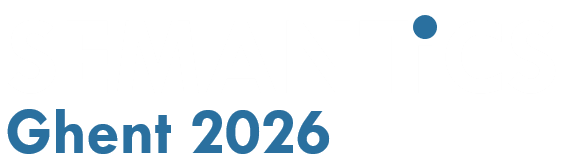
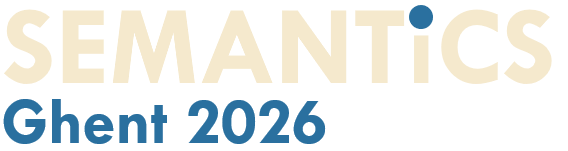
Updated:  CSS and HTML files with minor color changes and formatting adjustments

diff --git a/page/footer.html b/page/footer.html
@@ -22,10 +22,10 @@
 			<div class="col-md-4 mb-4">
 				<h6 class="fw-bold mb-3">Quick Links</h6>
 				<ul class="list-unstyled footer-links">
-					<li><a href="__baseurl__page/imprint">Imprint</a></li>
-					<li><a href="__baseurl__page/termsofuse">Terms of Use</a></li>
-					<li><a href="__baseurl__page/privacy_policy">Privacy Policy</a></li>
-					<li><a href="__baseurl__page/contact">Contact</a></li>
+					<li><a href="__baseurl__page/imprint">- Imprint</a></li>
+					<li><a href="__baseurl__page/termsofuse">- Terms of Use</a></li>
+					<li><a href="__baseurl__page/privacy_policy">- Privacy Policy</a></li>
+					<li><a href="__baseurl__page/contact">- Contact</a></li>
 				</ul>
 			</div>
 
@@ -79,15 +79,15 @@
 
 <style>
 	.copy-right {
-		color: #e3e3e3;
+		color: #F5E9CD;
 	}
 
 	.footer-glass {
-		color: #f1f1f1;
+		color: #F5E9CD;
 	}
 
 	.footer-links a {
-		color: #e3e3e3;
+		color: #F5E9CD;
 		text-decoration: none;
 		display: block;
 		margin-bottom: 6px;
@@ -100,7 +100,7 @@
 	}
 
 	.footer-social-icons a {
-		color: #eaeaea;
+		color: #F5E9CD;
 		margin-right: 12px;
 		transition: 0.25s ease;
 	}

diff --git a/css/style.css b/css/style.css
@@ -1,6 +1,7 @@
 :root {
 	--nav-bg-color: #33075c;
-	--nav-bg-color-semantics: rgb(64,71,87);
+	--nav-bg-color-semantics:#2B3C46;
+	/* --nav-bg-color-semantics: rgb(64,71,87); */
 	--nav-bg-color-semantics-two: rgb(64,71,87);
 	--nav-bg-color-semantics-orange: rgb(236,142,48);
 	--nav-bg-color-opacque: rgba(51, 7, 92,0.5);
